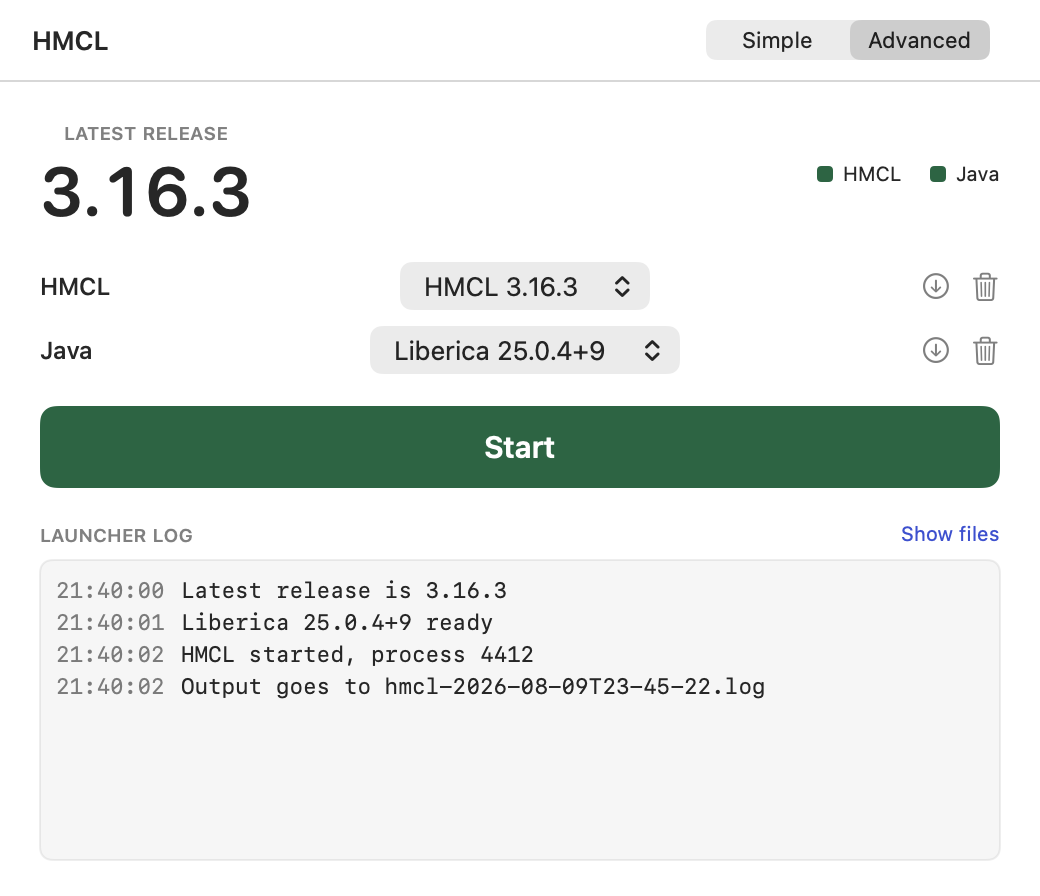
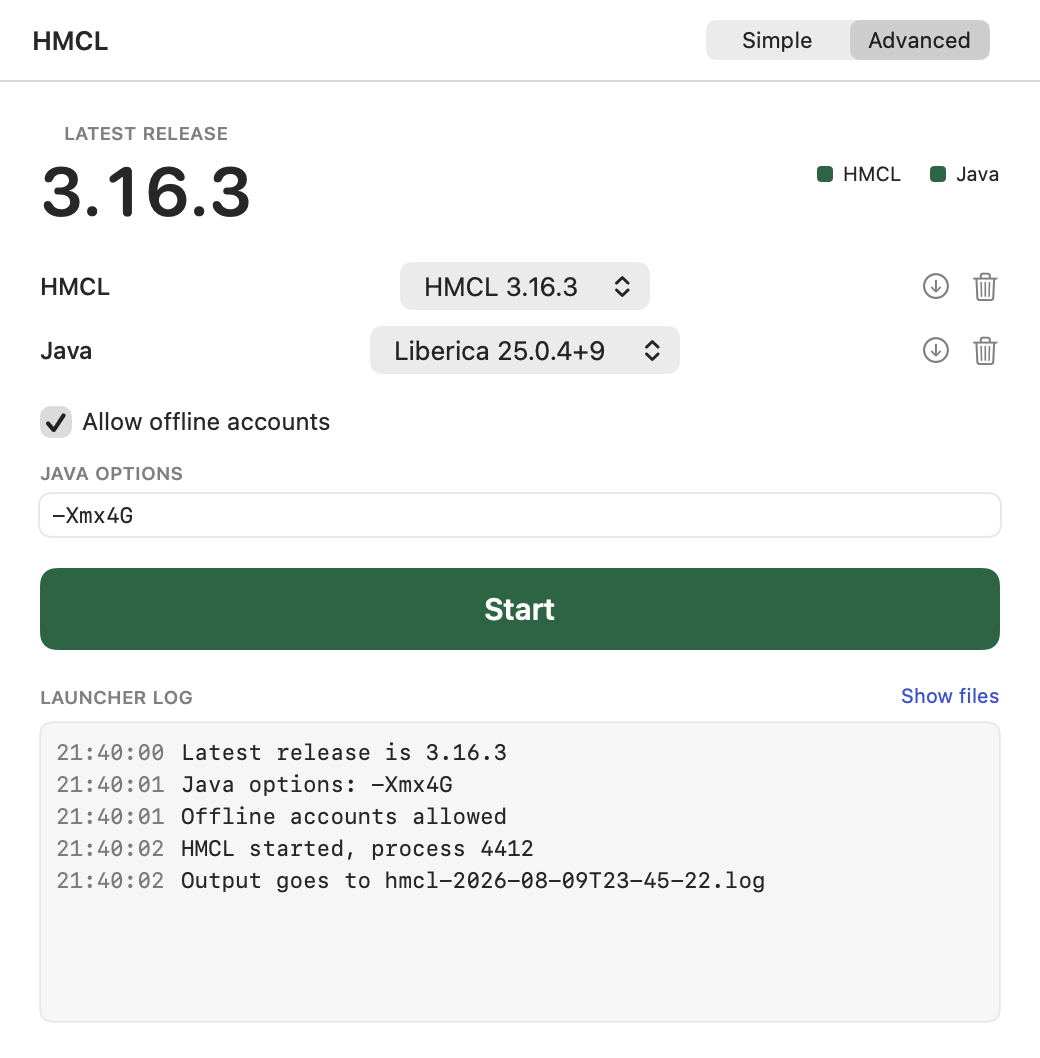
docs: offline accounts, Java options, and 1.0.1
README gains the offline benefit and drops the weakest feature bullet by
merging the two "nothing left behind" ones.

how-it-works records the property, the file, the line and the version it
was read from, plus a link to the HMCL commit that added the gate. That
is the whole defence against a future rename: the checkbox would go quiet
with no error, and this says where to look.

Screenshots refreshed, including the failed-launch case.

diff --git a/Sources/LauncherKit/LauncherKit.swift b/Sources/LauncherKit/LauncherKit.swift
@@ -5,5 +5,5 @@ import Foundation
 public enum AppIdentity {
     public static let bundleIdentifier = "net.tlau.HMCLLauncher"
     public static let displayName = "HMCL Launcher"
-    public static let version = "1.0.0"
+    public static let version = "1.0.1"
 }

diff --git a/docs/how-it-works.md b/docs/how-it-works.md
@@ -22,6 +22,41 @@ HMCL's UI is JavaFX and a stock JRE has none, so HMCL downloads OpenJFX and modu
 
 Downloading it at runtime instead of bundling it also keeps the app bundle to a single binary, so signing is one `codesign` call rather than deep-signing ~200 nested JRE binaries.
 
+## Offline accounts
+
+HMCL does not remove offline login, it hides it. `AccountListPage.java:65` in v3.16.3:
+
+```java
+String property = System.getProperty("hmcl.offline.auth.restricted", "auto");
+if ("false".equals(property)
+        || "auto".equals(property) && LocaleUtils.IS_CHINA_MAINLAND
+        || userSettings().enableOfflineAccountProperty().get())
+    RESTRICTED.set(false);
+```
+
+While restricted, `CreateAccountPane.java:100` forces the Microsoft factory and hides the login-method switcher, so the option is not reachable at all. The checkbox sets that property to `false`. HMCL's own dev build does the same in `build.gradle.kts:386`.
+
+Written down because it is an internal property, not a public API. If a future HMCL renames it the checkbox will go quiet with no error, and this is where to start looking. Added by [commit cc16f84](https://github.com/HMCL-dev/HMCL/commit/cc16f84992b12ba6840b4ca2ca262dd14bbf471b).
+
+It only unhides the login option. An offline account still cannot join an online-mode server.
+
+## Java options
+
+What you type in Advanced mode is split the way HMCL splits its own (`parseToolOptions`, `build.gradle.kts:317`) and passed through unchanged. Nothing is filtered.
+
+Ours go on the command line first and yours last, because the JVM takes the last `-D` for a key — so typing `-Dhmcl.update_source.override=…` overrides even the update suppression. The offline flag is skipped entirely if you already set that property yourself.
+
+A rejected option kills java before HMCL starts:
+
+```
+Unrecognized VM option 'BogusOption=1'
+Error: Could not create the Java Virtual Machine.
+```
+
+So the launch is watched for 800 ms and, if the process is gone, the tail of its log goes to the log pane instead of a pid. Liveness is sampled rather than read once, because Foundation notices a child's exit asynchronously.
+
+![A launch killed by a rejected option](failed-launch.png)
+
 ## Why HMCL survives quitting the launcher
 
 The child is spawned with no pipes and its output redirected to a file. A pipe would tie its lifetime to ours. macOS reparents it to `launchd`, which you can see as `PPID 1`:

diff --git a/README.md b/README.md
@@ -26,9 +26,9 @@
 
 - **Never install Java to play**: it fetches its own and keeps it to itself, so whatever you already have on the machine keeps working exactly as before
 - **Always on the current HMCL**: it reads the latest release itself, so you stop hunting GitHub for a jar
+- **Offline accounts, one checkbox**: HMCL hides that login option outside mainland China, and this puts it back without you editing anything
 - **Close the launcher, keep playing**: quitting this window leaves your game running
-- **Your worlds stay yours**: saves live where they always did, and nothing is copied into a private folder you would have to find later
-- **Undo the whole thing**: drag one folder to the Trash and the machine is back to how it started
+- **Nothing to clean up**: your worlds stay where they always were, and dragging one folder to the Trash undoes the rest
 
 ## Quick start
 
@@ -61,6 +61,8 @@ Nothing to set to boot. The app writes one folder, `~/Library/Application Suppor
 | `HMCL_LOCAL_HOME` | set by the app | `<workspace>/hmcl-local` | HMCL's cache and its own logs |
 | `HMCL_DEPENDENCIES_DIR` | set by the app | `<workspace>/hmcl-deps` | HMCL's library cache |
 | `HMCL_INTEGRATION` | to run the live test | unset | `=1` lets `swift test --filter EndToEnd` download for real |
+
+Advanced mode also has a Java options box. What you type goes to the JVM unchanged, before `-jar`, and nothing is filtered — `-Xmx4G` works, and so does a typo that stops java from starting, which the log pane will tell you about. The offline checkbox adds one property, `-Dhmcl.offline.auth.restricted=false`, and anything you type wins over it.
 
 Two flags exist for looking at the UI without Screen Recording permission, see [docs/how-it-works.md](docs/how-it-works.md).
 
